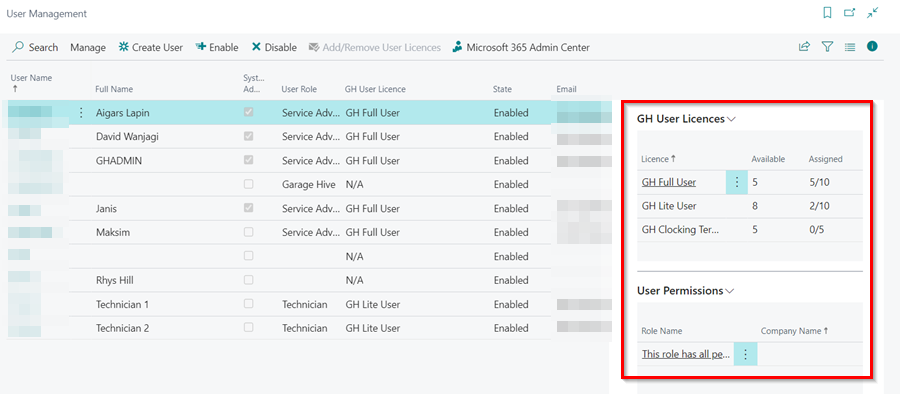
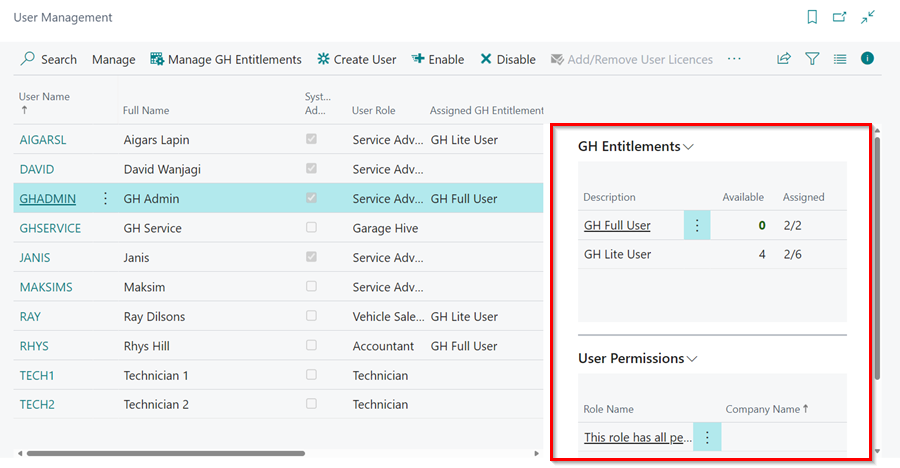
user management screenshots update

diff --git a/docs/garagehive-user-management.md b/docs/garagehive-user-management.md
@@ -9,8 +9,8 @@ title: How to Create Users, Manage Roles and Enable Data Permissions in Garage H
 In the Garage Hive system, the **User Management** page allows creation of licenced users, management of their roles, and enabling of data permissions. The only user who can create users, manage roles, and enable data permissions for users is the one who is marked as the **System Administrator**.
 
 ## In this article
-1. [Checking User Licences Available In the System](#checking-user-licences-available-in-the-system)
-2. [Adding and removing a user licence](#adding-and-removing-a-user-licence)
+1. [Checking GH Entitlements Available In the System](#checking-gh-entitlements-available-in-the-system)
+2. [Adding and Removing a User Licence](#adding-and-removing-a-user-licence)
 3. [Creating a Service Advisor user](#creating-a-service-advisor-user)
 4. [Creating a Technician user](#creating-a-technician-user)
 5. [Enabling and disabling a user](#enabling-and-disabling-the-user)
@@ -19,8 +19,8 @@ In the Garage Hive system, the **User Management** page allows creation of licen
 8. [Add Authentication Email with Azure Active Directory &#40;AAD&#41;](#add-authentication-email-with-azure-active-directory-aad)
 9. [How to Filter Out Service Advisor Tiles For a User](#how-to-filter-out-service-advisor-tiles-for-a-user)
 
-### Checking User Licences Available In the System
-To check the number of user licences available in your system:
+### Checking GH Entitlements Available In the System
+To check the available and assigned GH Entitlements in your system:
 1. Search for **User Management** in the ![](media/search_icon.png) icon, at the top-right corner.
 
    ![](media/garagehive-user-management-check-licences1.png)
@@ -29,7 +29,7 @@ To check the number of user licences available in your system:
 
    ![](media/garagehive-user-management-check-licences2.png)
 
-3. This action will open a new sidebar on the right side of the screen, where the total number of GH user licences currently available in your system can be viewed.
+3. This action will open a new sidebar on the right side of the screen, where the total number of GH Entitlements currently available or assigned in your system can be viewed.
 
    ![](media/garagehive-user-management-check-licences3.png)
 
@@ -55,30 +55,38 @@ To be able to use user accounts in the Garage Hive system, they must have a lice
 [Go back to top](#top)
 
 ### Creating a Service Advisor user
-1. Search for **User Management** in the ![](media/search_icon.png) icon, at the top-right corner. 
-2. The user management table opens; it displays all the users, their roles, statuses, user licences and the GH User licences for the system (right-hand side).
+To create a Service Advisor Role:
+1. Search for **User Management** in the ![](media/search_icon.png) icon, at the top-right corner.
 
-    ![](media/garagehive-user-management1.gif)
+   ![](media/garagehive-user-management1a.png)
 
-3. To create a new **Service Advisor** user, click on **Create User** from the menu bar and enter the user details in the pop-up window. 
-4. The system generates a username and password.
+2. The **User Management** page displays all the users, their roles, statuses, and GH Entitlements assigned.
 
-    ![](media/garagehive-user-management2.gif)
+    ![](media/garagehive-user-management1.png)
 
-5. Click **Next** to enter user contact details and notification settings for the user.
-6. Click **next** to specify the clocking preference for the user.
+3. To create a new **Service Advisor** user, click on **Create User** from the menu bar and enter the user Full Name in the pop-up window. 
+4. The system generates a username and password for the user.
+5. Select, the **user Role** as **Service Advisor**, which will have the **GH Entitlement** as the **GH Full User**. Click **Next**.
 
-    ![](media/garagehive-user-management3.gif)
+   ![](media/garagehive-user-management1b.png)
 
-7. The following two pages allow you to add the **Salesperson Code** or use an existing salesperson and choose whether to send a welcome email.
+6. Enter the user **Contact Details** and notification settings for the user. Click **Next**.
 
-    ![](media/garagehive-user-management4.gif)
+   ![](media/garagehive-user-management2.png)
 
-8. After adding all the required information, click on **Create** to create the user.
+7. Specify the clocking preference for the user. Click **Next**.
 
-    ![](media/garagehive-user-management5.gif)
+   ![](media/garagehive-user-management3.png)
 
-9. An email is sent to the new user with the login details, and they can now sign in.
+8. The following page allow you to add the **Salesperson Code** or use an existing salesperson. Click **Next**.
+
+   ![](media/garagehive-user-management4.png)
+
+9. Choose whether to send a welcome email. Click **Create**.
+
+   ![](media/garagehive-user-management5.png)
+
+10. An email is sent to the new user with the login details, and they can now sign in.
 
 ![](media/garagehive-user-management6.png)
 
@@ -86,16 +94,26 @@ To be able to use user accounts in the Garage Hive system, they must have a lice
 
 ### Creating a Technician user
 To create a **Technician** user:
-1. Click on **Create** from the menu bar and enter the user details and contact details in the following two pages.
+1. Click on **Create** from the menu bar and enter the user full name.
+2. The system generates a username and password for the user.
+2. Select, the **user Role** as **Technician**, which will have the **GH Entitlement** as the **GH Lite User**. Click **Next**.
 
-    ![](media/garagehive-user-management7.gif)
+    ![](media/garagehive-user-management7.png)
 
-2. On the third page, select **Will be using Easy Clocking** and add the **Schedule Resource Group Code** that the technician will be using. The **Resource No.** is automatically generated. 
-3. No salesperson is required on the following pages, and you can send out a welcome email to the technician.
+3. Enter the user **Contact Details** and notification settings for the user. Click **Next**.
 
-    ![](media/garagehive-user-management8.gif)
+   ![](media/garagehive-user-management8.png)
 
-4. After creating the technician user, check the schedule to ensure the technician is added.
+4. Select **Will be using Easy Clocking** and add the **Schedule Resource Group Code** that the technician will be using. The **Resource No.** is automatically generated. Click **Next**.
+
+   ![](media/garagehive-user-management9.png)
+
+5. No salesperson is required on the following pages, click **Next**.
+6. Select **Send Welcome Email** to the technician. Click **Create**.
+
+    ![](media/garagehive-user-management10.png)
+
+7. After creating the technician user, check the schedule to ensure the technician is added.
 
 ![](media/garagehive-user-management9.gif)
 
